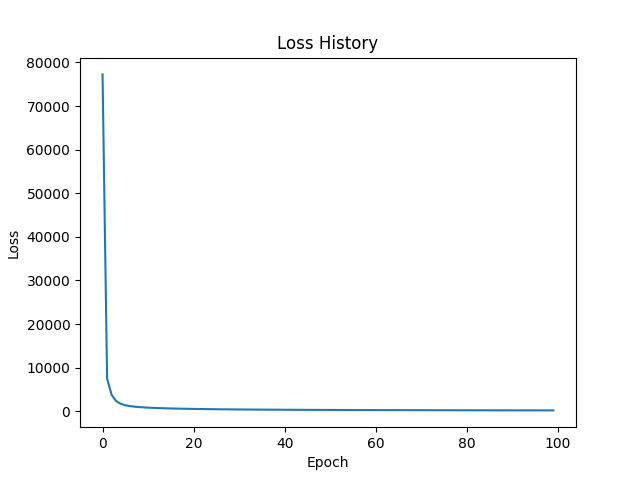
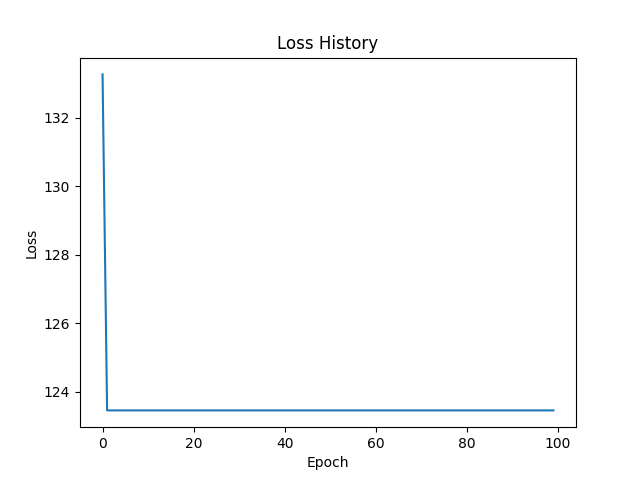
Ajout de la sigmoid

diff --git a/Perceptron.py b/Perceptron.py
@@ -2,61 +2,66 @@
 import scipy.io
 import numpy as np
 from scipy.sparse import vstack
+
+
 class Perceptron_GD:
 
-  def __init__(self,learning_rate=0.01,n_iters=100):
-    self.lr = learning_rate
-    self.n_iters = n_iters
-    self.W = None
-    self.bias = None
-    self.loss_history = []
+    def __init__(self, input_size, output_size, learning_rate=0.01, n_iters=100):
+        self.lr = learning_rate
+        self.n_iters = n_iters
+        self.input_size = input_size
+        self.output_size = output_size
+        self.W = None
+        self.bias = None
+        self.loss_history = []
 
-  def activation_func(self,z):
-    #Fonction echellon
-    return np.where(z >= 0,1,0)
+    def activation_func(self, z):
+        # sigmoide
+        return 1/(1+np.exp(-z))
 
-  def mse_loss(self,y_pred,y_true):
-    return np.mean((y_true - y_pred)**2)
+    def deriative_sigmoid(self, z):
+        sig = self.activation_func(z)
+        return sig*(1-sig)
 
-  def oracle(self,X,y_true):
-    n = X.shape[0]
+    def mse_loss(self, y_pred, y_true):
+        return np.mean((y_true - y_pred)**2)
 
-    residuals = self.W @ X - y_true
+    def oracle(self, X, y_true):
+        n = X.shape[1]
 
-    gradient_W = (1/n)*(residuals@X.T)
+        residuals = self.W.T@X + self.bias
+        y_pred = self.activation_func(residuals)
 
-    gradient_B = (1/n)*sum(residuals)
+        dL_dy = y_pred - y_true
 
+        dy_dz = self.deriative_sigmoid(residuals)
 
-    return gradient_W, gradient_B
+        Error_Sigmoid = (1/n*(dL_dy*dy_dz))
 
+        gradient_W = X@Error_Sigmoid.T
 
+        gradient_B = np.sum(Error_Sigmoid)
 
-  def fit(self,X,y):
+        return gradient_W, gradient_B, y_pred
 
-      n_features = X.shape[0]
+    def fit(self, X, y_true):
 
+        self.W = np.random.randn(self.input_size, self.output_size)*0.01
+        self.bias = np.zeros((self.output_size, 1))
 
-      self.W = np.ones((1,n_features))
-      self.bias = 0.0
+        for k in range(self.n_iters):
+            grad_W, grad_B, y_pred = self.oracle(X, y_true)
 
+            loss = self.mse_loss(y_pred, y_true)
+            self.loss_history.append(loss)
 
+            self.W = self.W - self.lr * grad_W
+            self.bias = self.bias - self.lr*grad_B
 
-      for k in range(self.n_iters):
+    def predict(self, X):
+        linear_product = self.W.T@X + self.bias
 
-        y_pred = (self.W@X) + self.bias
-        l = self.mse_loss(y_pred,y)
-        self.loss_history.append(l)
-        grad_W, grad_B = self.oracle(X,y)
-        self.W = self.W - self.lr * grad_W
-        self.bias = self.bias - self.lr*grad_B
-
-  def predict(self,X):
-    linear_product = self.W @ X + self.bias
-
-    return np.where(linear_product >= 0, 1,0)
-
-
+        return np.where(linear_product >= 0, 1, 0)
 
 
 # model = Perceptron_GD(learning_rate=0.001)

diff --git a/main.py b/main.py
@@ -6,26 +6,38 @@ from Perceptron import Perceptron_GD
 import matplotlib.pyplot as plt
 from OptimalStep import puissance
 from Metrics import Metrics
+from sklearn.model_selection import train_test_split
 
 if __name__ == "__main__":
-    
-    data = scipy.io.loadmat("./data/data_doc.mat",squeeze_me=True,struct_as_record=False)
-    # Input
+
+    data = scipy.io.loadmat("./data/data_doc.mat",
+                            squeeze_me=True, struct_as_record=False)
+
     X = data['Xts'].tocsr()
-    # Label
+
     y_ts = data['yts']
-    #Validation
+
     X_vr = data['Xvr'].tocsr()
 
-    n = X.shape[0]
+    # labels = [i for i in range(20)]
+
+    # X_train, X_test, y_train, y_test = train_test_split(
+    #     X, y_ts, test_size=0.2, random_state=42, stratify=labels)
+
+    labels = 20
+
+    n = X.shape[1]
     # Calcul de Hessienne
     H = (1/n)*X@X.T
 
     # Calcul de la valeur propre maximum de H
-    L = puissance(H)
+    # print("Calcul de la valeur propre de module maximum")
+    # L = puissance(H)
+    # print(f"La valeur propre de module maximum vaut {L}")
 
-    model = Perceptron_GD(learning_rate=1/L,n_iters=100)
-    model.fit(X,y_ts)
+    model = Perceptron_GD(
+        input_size=X.shape[0], output_size=labels, learning_rate=1, n_iters=100)
+    model.fit(X, y_ts)
 
     # Plot the loss history
     plt.plot(model.loss_history)
@@ -34,7 +46,3 @@ if __name__ == "__main__":
     plt.title("Loss History")
     plt.savefig("./results/loss_history.png")
     print("Loss history saved to loss_history.png")
-
-
-
-
